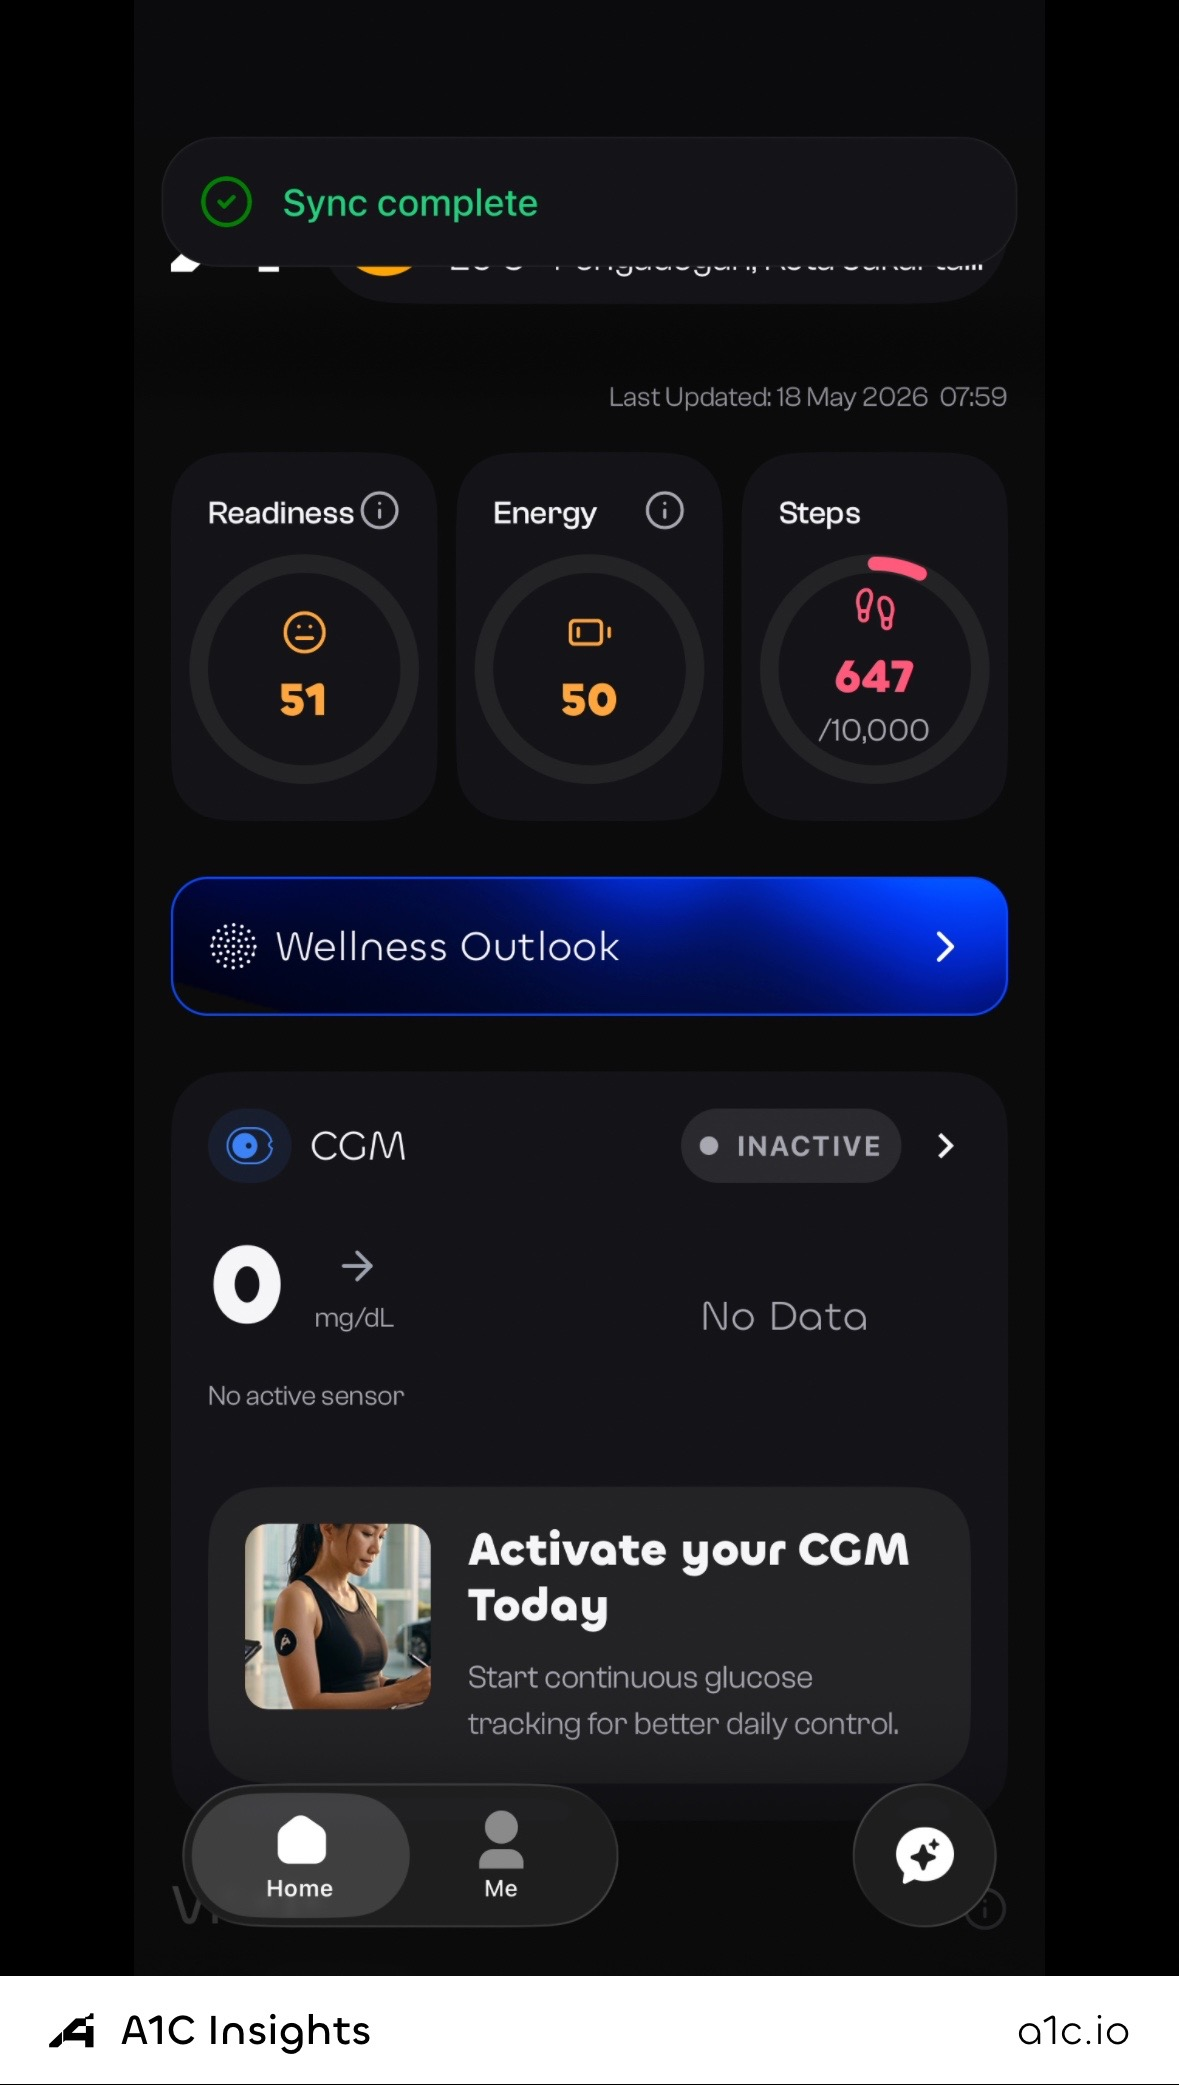
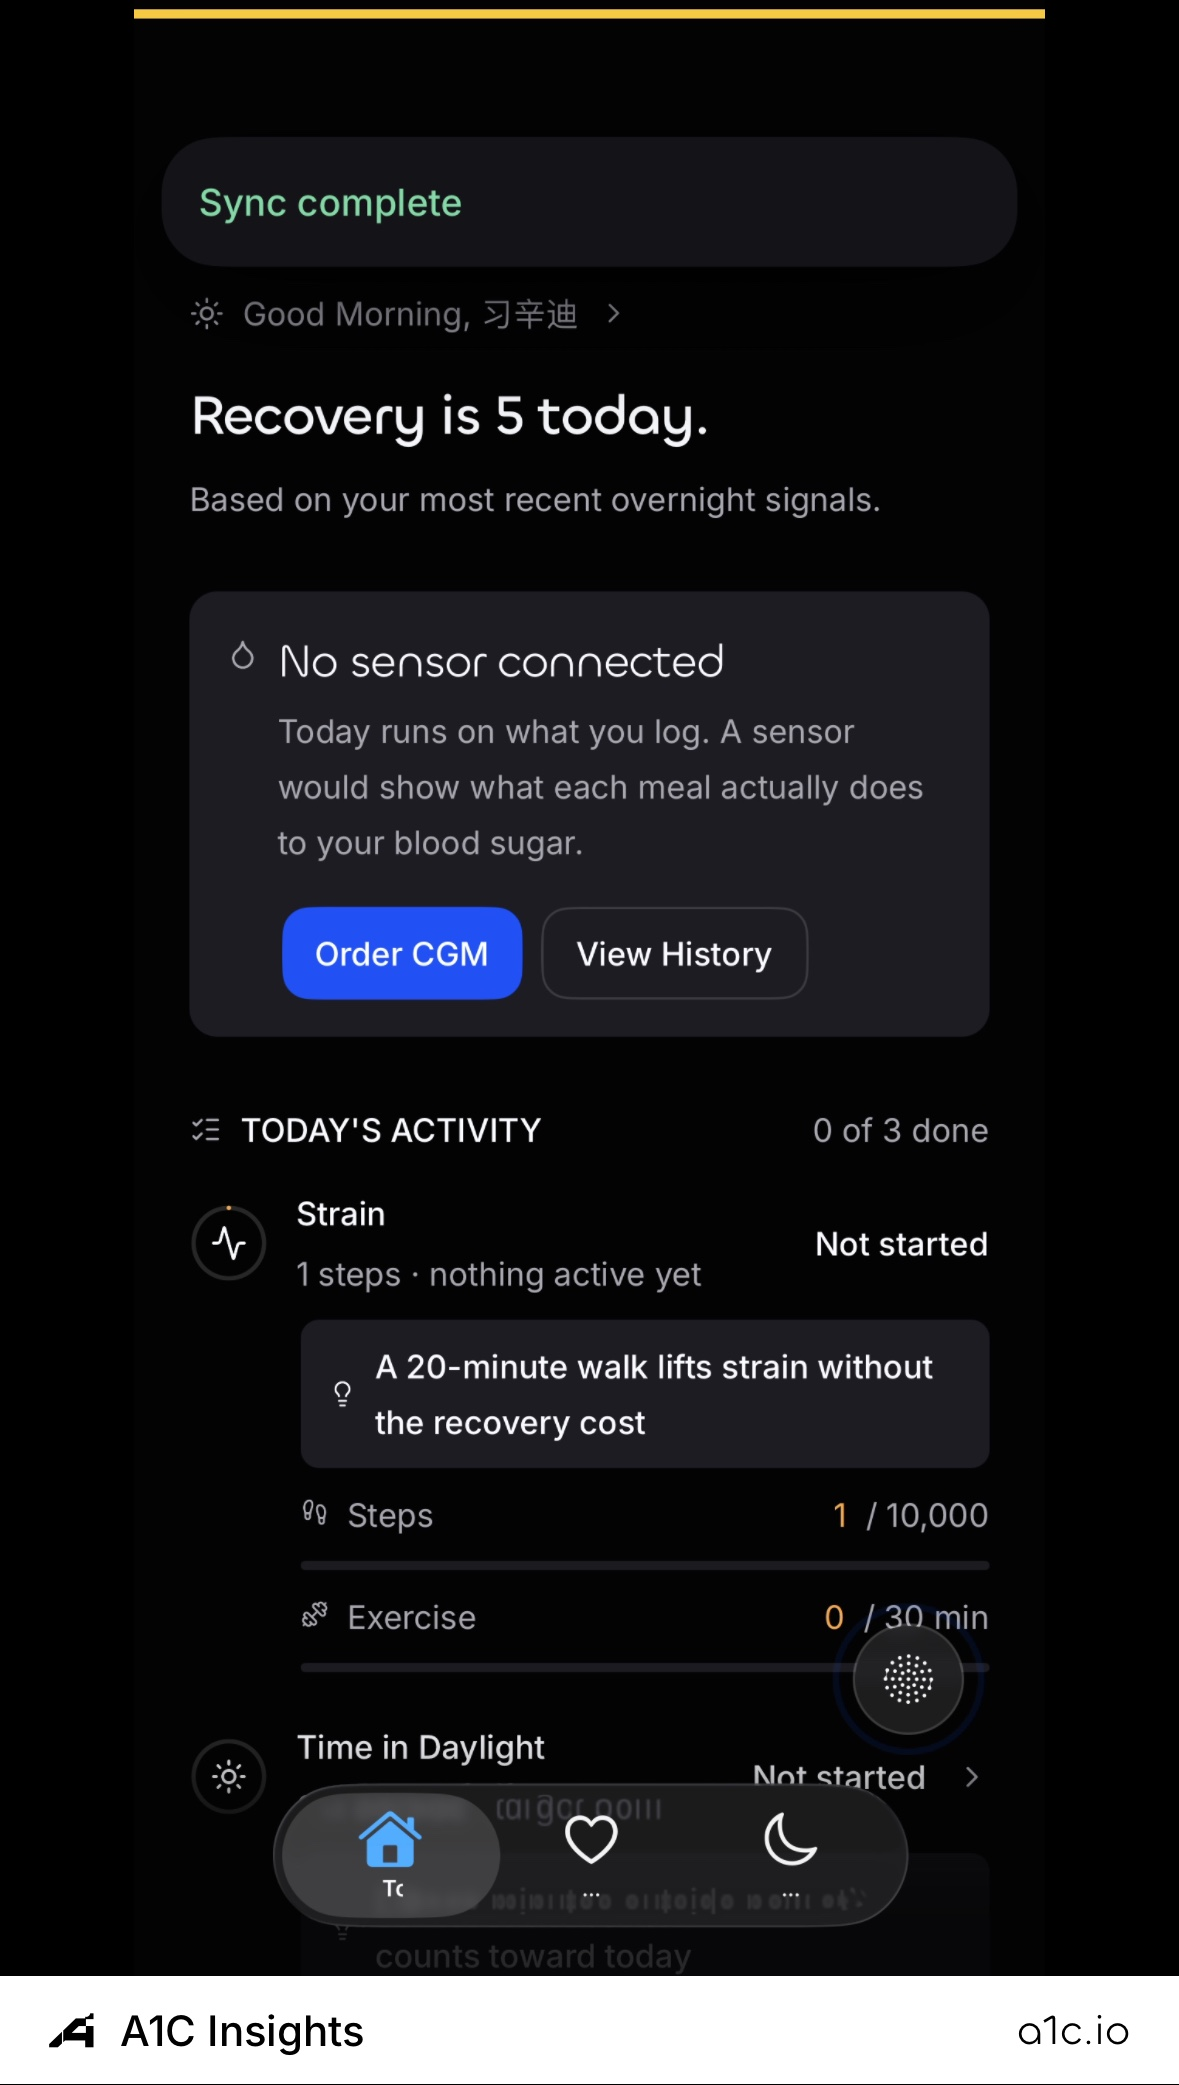
Console signup is now a first-class path
Section 1 required installing A1C Insights before you could get a key. You can
now sign up at console.a1c.io directly, so onboarding is presented as two
paths: console first for a key in minutes, A1C Insights when you want answers
about your own biomarkers.

Adds a table of what a console-only key can call. The three skills that read
personal CGM and wearable data return a typed no_health_data error and charge
nothing until biomarkers are connected, rather than failing opaquely.

Refreshes both onboarding screenshots.

diff --git a/README.md b/README.md
@@ -25,16 +25,45 @@ Compatible with Claude Code, Claude Desktop, Cursor, OpenClaw, Hermes, Manus, Pe
 
 ## Section 1. Onboarding
 
-Before your agent can call any Sally skill, you (the human) need an A1C account and an API key. Two steps.
+Before your agent can call any Sally skill, you (the human) need an API key. There are two ways in,
+and you can start with either.
 
-### Step 1. Install A1C Insights and create your account
+### Path A. Start in the console (fastest)
+
+1. Visit <https://console.a1c.io> and sign up with Apple or Google. No app install, no waitlist.
+2. Open **API Keys**, click **Create new key**, name it (e.g. "Claude Code on my laptop"), and click **Generate**.
+3. **Copy the key now.** It starts with `sk-sally-…` and is shown only once. If you lose it, revoke and re-issue.
+
+This gives you a working key immediately, with access to Sally's specialized reasoning and the
+curated metabolic and longevity knowledge base.
+
+What a console-only key can call today:
+
+| skill | works without biomarkers |
+| --- | --- |
+| `chat_with_sally` | yes |
+| `analyze_lab_result` | yes |
+| `food_journal` | yes |
+| `supplement_grading` | yes |
+| `search_health_knowledge` | yes, free |
+| `lookup_supplement_grade` | yes, free |
+| `lookup_food` | yes, free |
+| `health_sync` | needs biomarkers |
+| `health_insights` | needs biomarkers |
+| `metabolic_overview` | needs biomarkers |
+
+The last three read your own CGM and wearable data, so without it they return a typed
+`no_health_data` error immediately and charge you nothing. Connect your biomarkers in path B and they
+start answering.
+
+### Path B. Add your own biomarkers with A1C Insights
+
+Do this when you want answers about *your* glucose, sleep and labs rather than the domain in general.
 
 1. Open the App Store on your iPhone.
 2. Search for **A1C Insights** and install it, or open <https://apps.apple.com/id/app/a1c-insights/id6748399956> on your phone.
-3. Open the app and tap **Sign Up**. You can use *Sign in with Apple* or
-   email + password.
-4. Walk through onboarding (your basics, goals, optional wearables). This creates your A1C user account. Every skill key is bound to one A1C
-   account.
+3. Sign in with the same account you used on the console, or tap **Sign Up** if you are starting here.
+4. Walk through onboarding (your basics, goals, optional wearables) and connect a CGM or wearable.
 
 <p align="center">
   <img src="assets/onboarding-sync.jpg" alt="A1C Insights syncing your wearable data on first open" width="320" />
@@ -45,24 +74,23 @@ Before your agent can call any Sally skill, you (the human) need an A1C account 
 > Visual walkthrough with annotated screenshots:
 > <https://console.a1c.io/docs.html#quickstart>.
 
-> Why iOS first? Skills like `metabolic_overview`, `health_insights`, and
-> `health_sync` read CGM and wearable data the iPhone app collects via
-> HealthKit. You can still use `chat_with_sally`, `analyze_lab_result`,
-> and `food_journal` without any wearable data, but the account itself is
-> created on the iOS app.
+Sally Console and A1C Insights run on the same backend, so your account and your key are the same on
+both. Already on A1C Insights? Sign in to the console directly and your key works against data you
+have already synced.
 
-### Step 2. Mint your API key on console.a1c.io
+> Why iOS for biomarkers? Skills like `metabolic_overview`, `health_insights`, and `health_sync` read
+> CGM and wearable data the iPhone app collects via HealthKit. Everything else works from a console
+> account alone.
 
-1. Visit <https://console.a1c.io> in any browser.
-2. Sign in with the same A1C account you created in step 1.
-3. Open **API Keys**, click **Create new key**, name it (e.g. "Claude Code on my laptop"), and click **Generate**.
-4. **Copy the key now.** It starts with `sk-sally-…` and is shown only once. If you lose it, revoke and re-issue.
+### Keys and billing
 
-You can mint multiple keys per A1C account, one per agent or device, and they all share the same wallet balance. Per-key usage stays auditable.
+You can mint multiple keys per account, one per agent or device, and they all share the same wallet
+balance. Per-key usage stays auditable. Top up with a card or with USDC on Base, or go unlimited
+monthly.
 
 That's section 1 done. You now have:
 
-* An A1C account linked to your iPhone app data.
+* An account, created wherever suited you.
 * A funded wallet.
 * An `sk-sally-…` API key on your clipboard.
 
